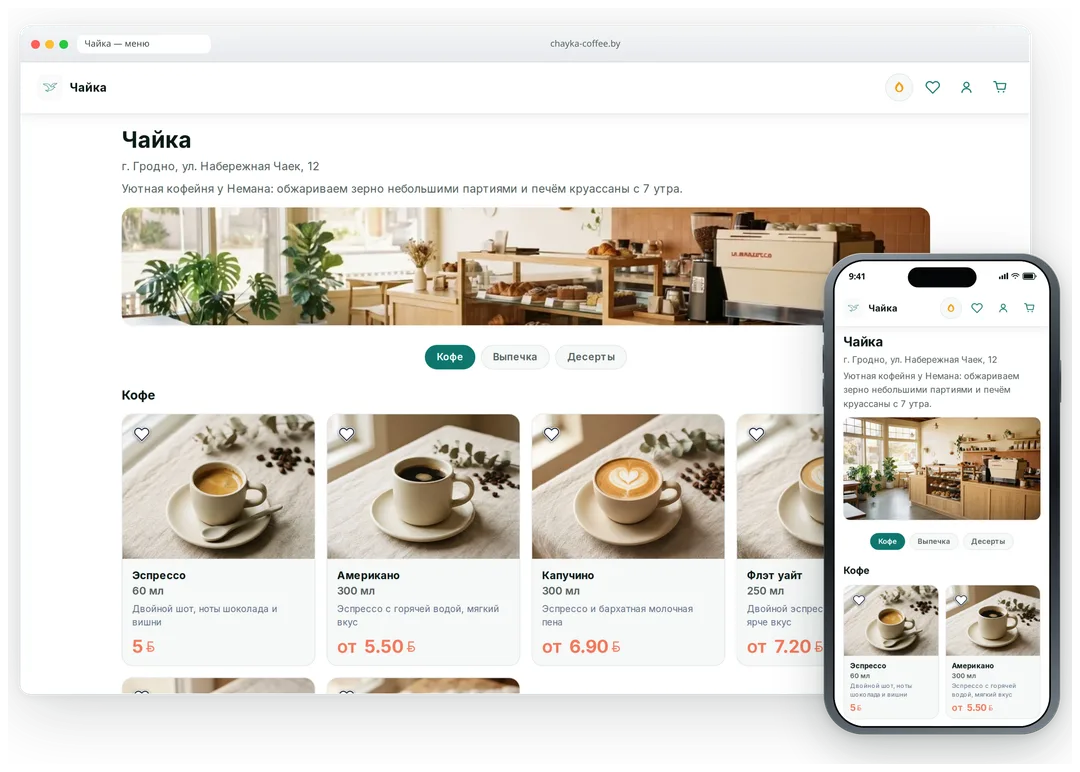
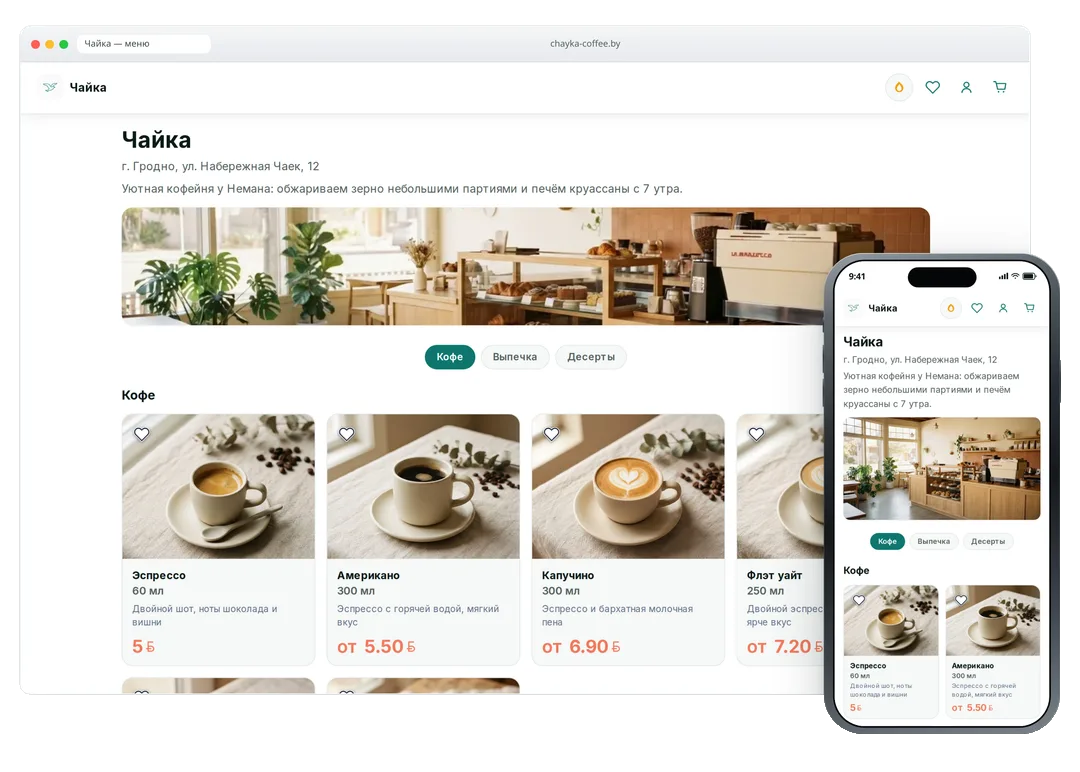
fix(landing): fill the first screen and clear the hero box
Center the hero in the remaining viewport so the steps start just below the fold, and replace the clipped scene shadow with a transparent bitmap plus a soft drop-shadow.

Changed region(s): [[0.0306, 0.9016, 0.9778, 0.9948], [0.9778, 0.3731, 1.0, 0.9326], [0.9472, 0.3109, 0.9778, 0.342]]

diff --git a/src/views/landing.scss b/src/views/landing.scss
@@ -32,10 +32,15 @@ html:has(.landing) {
 
 /* ===== Базовый контейнер ===== */
 .landing {
+  --header-h: 62px;
   min-height: 100vh;
   background: $landing-bg;
   color: $landing-ink;
   overflow-x: clip;
+
+  @media (min-width: 768px) {
+    --header-h: 85px;
+  }
 }
 
 .landing__container {
@@ -335,15 +340,20 @@ html:has(.landing) {
   position: relative;
   display: grid;
   gap: 1.25rem;
-  align-items: start;
-  padding-block: 1.25rem 1.5rem;
-  overflow: hidden;
+  box-sizing: border-box;
+  align-items: center;
+  min-height: calc(100vh - var(--header-h));
+  min-height: calc(100svh - var(--header-h));
+  padding-top: 32px;
+  padding-bottom: 24px;
+  overflow: visible;
 
   @media (min-width: 980px) {
     grid-template-columns: minmax(0, 5fr) minmax(0, 7fr);
     gap: 1.5rem;
-    padding-block: 2rem 1.25rem;
-    align-items: start;
+    align-items: center;
+    padding-top: clamp(48px, 6.5vh, 64px);
+    padding-bottom: clamp(12px, 2vh, 28px);
   }
 }
 
@@ -465,6 +475,7 @@ html:has(.landing) {
   width: 100%;
   max-width: 100%;
   height: auto;
+  filter: drop-shadow(0 16px 22px rgba(11, 26, 24, 0.16));
 }
 
 .landing-hero-visual__desktop,
